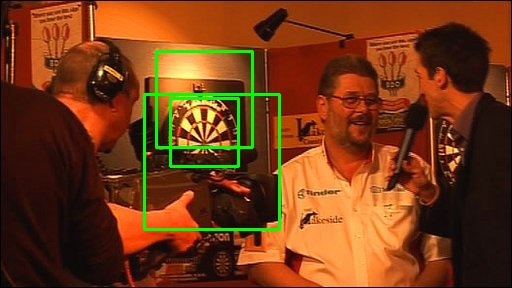
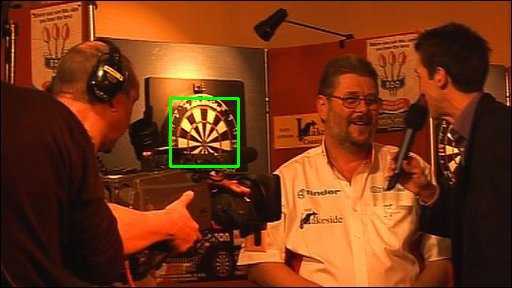
Improved bounding.hs and dart.cpp in order to make them automate the entire process of generating F-scores and TPR for every test image

Changed region(s): [[0.25, 0.1562, 0.5625, 0.8125]]

diff --git a/dart2.cpp b/dart2.cpp
@@ -16,12 +16,13 @@
 #include <stdio.h>
 
 #include <string>
+#include <fstream>
 
 using namespace std;
 using namespace cv;
 
 /** Function Headers */
-void detectAndDisplay( Mat frame, Mat filteredframe, int magthresh, double factor, int linethresh );
+void detectAndDisplay( Mat frame, Mat filteredframe, int magthresh, double factor, int linethresh, ofstream& myfile);
 
 void sobel(cv::Mat &grey_image, cv::Mat &x_image, cv::Mat &y_image){
 
@@ -140,16 +141,16 @@ int main( int argc, const char** argv ){
 	sscanf(argv[2],"%lf", &factor);
 	sscanf(argv[3],"%d", &linethresh);
 
-	//printf("magthresh := %d, factor := %f, linethres := %d\n", magthresh, factor, linethresh);
+  //open bounding text file
+  ofstream myfile;
+  myfile.open ("bounding.txt");
 
-	int images[9] = {1,2,3,4,8,9,11,13,14};
-
-	for (int k = 0; k < (sizeof(images)/sizeof(int)); k++){
+	for (int i = 0; i < 16; i++){
 
 		// 1. Read Input Image
 		char * file = new char[16];
-		sprintf(file, "tests/dart%d.jpg", images[k]);
-		printf("image: %d\n", images[k]);
+		sprintf(file, "tests/dart%d.jpg", i);
+		printf("image: %d\n", i);
 
 		Mat frame = imread(file, CV_LOAD_IMAGE_COLOR);
 		Mat filteredframe = frame.clone();
@@ -158,7 +159,8 @@ int main( int argc, const char** argv ){
 		if( !cascade.load( cascade_name ) ){ printf("--(!)Error loading\n"); return -1; };
 
 		// 3. Detect Faces and Display Result
-		detectAndDisplay( frame, filteredframe, magthresh, factor, linethresh);
+		detectAndDisplay( frame, filteredframe, magthresh, factor, linethresh, myfile);
+    myfile << "\n";
 
 		string argv1 (file);
 		argv1.erase(0,6); //strip off "tests/" from filename
@@ -171,14 +173,18 @@ int main( int argc, const char** argv ){
 		string outputname2 = subtask3 + filename + filtered;
 
 		// 4. Save Result Image
-		imwrite(outputname, frame);
+		//imwrite(outputname, frame);
 		imwrite(outputname2, filteredframe);
 	}
+
+  //close bounding text file
+  myfile.close();
+
 	return 0;
 }
 
 /** @function detectAndDisplay */
-void detectAndDisplay( Mat frame, Mat filteredframe, int magthresh, double factor, int linethresh )
+void detectAndDisplay( Mat frame, Mat filteredframe, int magthresh, double factor, int linethresh, ofstream& myfile)
 {
 	std::vector<Rect> faces;
 	Mat frame_gray;
@@ -193,6 +199,8 @@ void detectAndDisplay( Mat frame, Mat filteredframe, int magthresh, double facto
   // 3. Print number of Faces found
 	std::cout << faces.size() << std::endl;
 
+  char * buffer = new char[30];
+
   // 4. Draw box around faces found
 	int count = 0;
 	for( int i = 0; i < faces.size(); i++ ){
@@ -205,6 +213,8 @@ void detectAndDisplay( Mat frame, Mat filteredframe, int magthresh, double facto
 		if (check(roi, magthresh, factor, linethresh)){
 			rectangle(filteredframe, Point(faces[i].x, faces[i].y), Point(faces[i].x + faces[i].width, faces[i].y + faces[i].height), Scalar( 0, 255, 0 ), 2);
 			count++;
+      sprintf(buffer, "%d %d %d %d ", faces[i].x, faces[i].y, faces[i].x + faces[i].width, faces[i].y + faces[i].height);
+      myfile << buffer;
 		}
 		rectangle(frame, Point(faces[i].x, faces[i].y), Point(faces[i].x + faces[i].width, faces[i].y + faces[i].height), Scalar( 0, 255, 0 ), 2);
 	}
